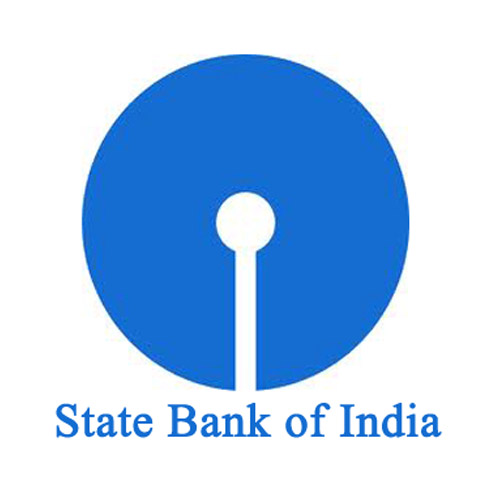
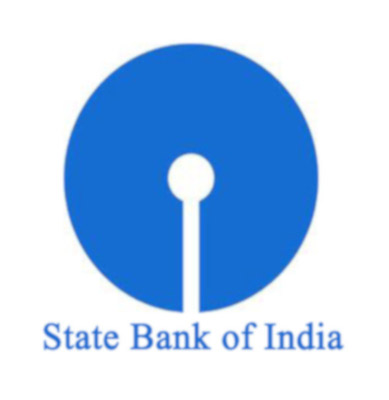
sponsors on index changed

diff --git a/index.html b/index.html
@@ -1175,7 +1175,9 @@
       <p class="text" style="font-family: harry; font-size: 4vw; margin-top: 20px; color: black"> A B O U T </p>
       <div style="">
         <p class="  shadow-lg rounded" style="font-weight: 100; padding: 10px; font-size: 2vw;  color: black; background-color:#ffa500; opacity: .9;font-family: 'Gill Sans', 'Gill Sans MT', Calibri, 'Trebuchet MS', sans-serif ">
-          Vulcanzy, the annual techno-cultural fest of NIT-AP is the most awaited event of the year . Guided by Vulcan, the Roman God of Fire, the idea of Vulcanzy unravels the big aspirations hidden inside a creative mind and promises the ultimate platform to showcase everyones hidden talents. This is the perfect destination to challenge one’s technical ability and groove to trending tunes. It’s time to relax , take a break from hectic schedules and participate in the various activities that are in store.
+          Vulcanzy, the annual techno-cultural fest of NIT-AP is the most awaited event of the year . Guided by Vulcan, the Roman God of Fire, the idea of Vulcanzy unravels the big aspirations hidden inside a creative mind and promises the ultimate
+          platform to showcase everyones hidden talents. This is the perfect destination to challenge one’s technical ability and groove to trending tunes. It’s time to relax , take a break from hectic schedules and participate in the various
+          activities that are in store.
         </p>
       </div>
       <div class="sponsors" style="display: block">
@@ -1184,42 +1186,50 @@
             <h4 class="text-center" style="color:white;">OUR BELOVED SPONSORS</h4><br /><br />
             <div class="row">
               <!-- <div class="card shadow-lg  bg-transparent rounded  cardPad"> -->
-              <div class="card shadow-lg  bg-transparent rounded  cardPad">
-                <div class="w3-card-4 w3-teal">
-                  <img src="./sponsors/blue-star.jpg" class="card_img" style="max-width: 100%;" max-height:100% alt="Img">
-                  <div class="w3-container w3-center">
-                    <p class="inner_text" style="vertical-align: middle;">Blue Star<br />desgn</p>
+              <a href="#" style="text-decoration: none ;" class="text-center">
+                <div class="card  border-0  bg-transparent rounded cardPad  ">
+                  <img src="./sponsors/blue-star.jpg" style="height: 210px;border-radius: 50%" class="card-img-top" />
+                  <div class="card-body">
+
+                    <p style="color: white ; font-size: 25px;font-family: 'Courier New', Courier, monospace; font-weight: bold">
+
+                      Blue Star
+                    </p>
+
                   </div>
                 </div>
-              </div>
-              <div class="card shadow-lg  bg-transparent rounded  cardPad">
-                <div class="w3-card-4 w3-teal">
-                  <img src="./sponsors/BSNL.svg.png" class="card_img" style="max-width: 100%; max-height:80%" alt="Img">
-                  <div class="w3-container w3-center">
-                    <p class="inner_text" style="vertical-align: middle;">Sponsor2<br />name</p>
+              </a>
+              <a href="#" style="text-decoration: none ;" class="text-center">
+                <div class="card  border-0  bg-transparent rounded cardPad  ">
+                  <img src="./sponsors/bsnl_logo.jpg" style="height: 210px;border-radius: 50%" class="card-img-top" />
+                  <div class="card-body">
+
+                    <p style="color: white ; font-size: 25px;font-family: 'Courier New', Courier, monospace; font-weight: bold">
+
+                      BSNL
+                    </p>
+
                   </div>
                 </div>
-              </div>
+              </a>
+              <a href="#" style="text-decoration: none ;" class="text-center">
+                <div class="card  border-0  bg-transparent rounded cardPad  ">
+                  <img src="./sponsors/2006-SBI-logo.png" style="height: 210px;border-radius: 50%" class="card-img-top" />
+                  <div class="card-body">
+
+                    <p style="color: white ; font-size: 25px;font-family: 'Courier New', Courier, monospace; font-weight: bold">
+
+                      SBI
+                    </p>
+
+                  </div>
+                </div>
+              </a>
             </div>
 
-            <div class="row">
-              <div class="card shadow-lg  bg-transparent rounded  cardPad">
-                <div class="w3-card-4 w3-teal">
-                  <img src="./sponsors/sbi.jpg" class="card_img" style="max-width: 100%; max-height:80%" alt="Img">
-                  <div class="w3-container w3-center">
-                    <p class="inner_text" style="vertical-align: middle;">Sponsor5<br />member</p>
-                  </div>
-                </div>
-              </div>
-              <div class="card shadow-lg  bg-transparent rounded  cardPad">
-                <div class="w3-card-4 w3-teal">
-                  <img src="" class="card_img" alt="Img">
-                  <div class="w3-container w3-center">
-                    <p class="inner_text" style="vertical-align: middle;">Sponsor6<br />Member<br /></p>
-                  </div>
-                </div>
-              </div>
-            </div>
+
+
+
 
 
 
